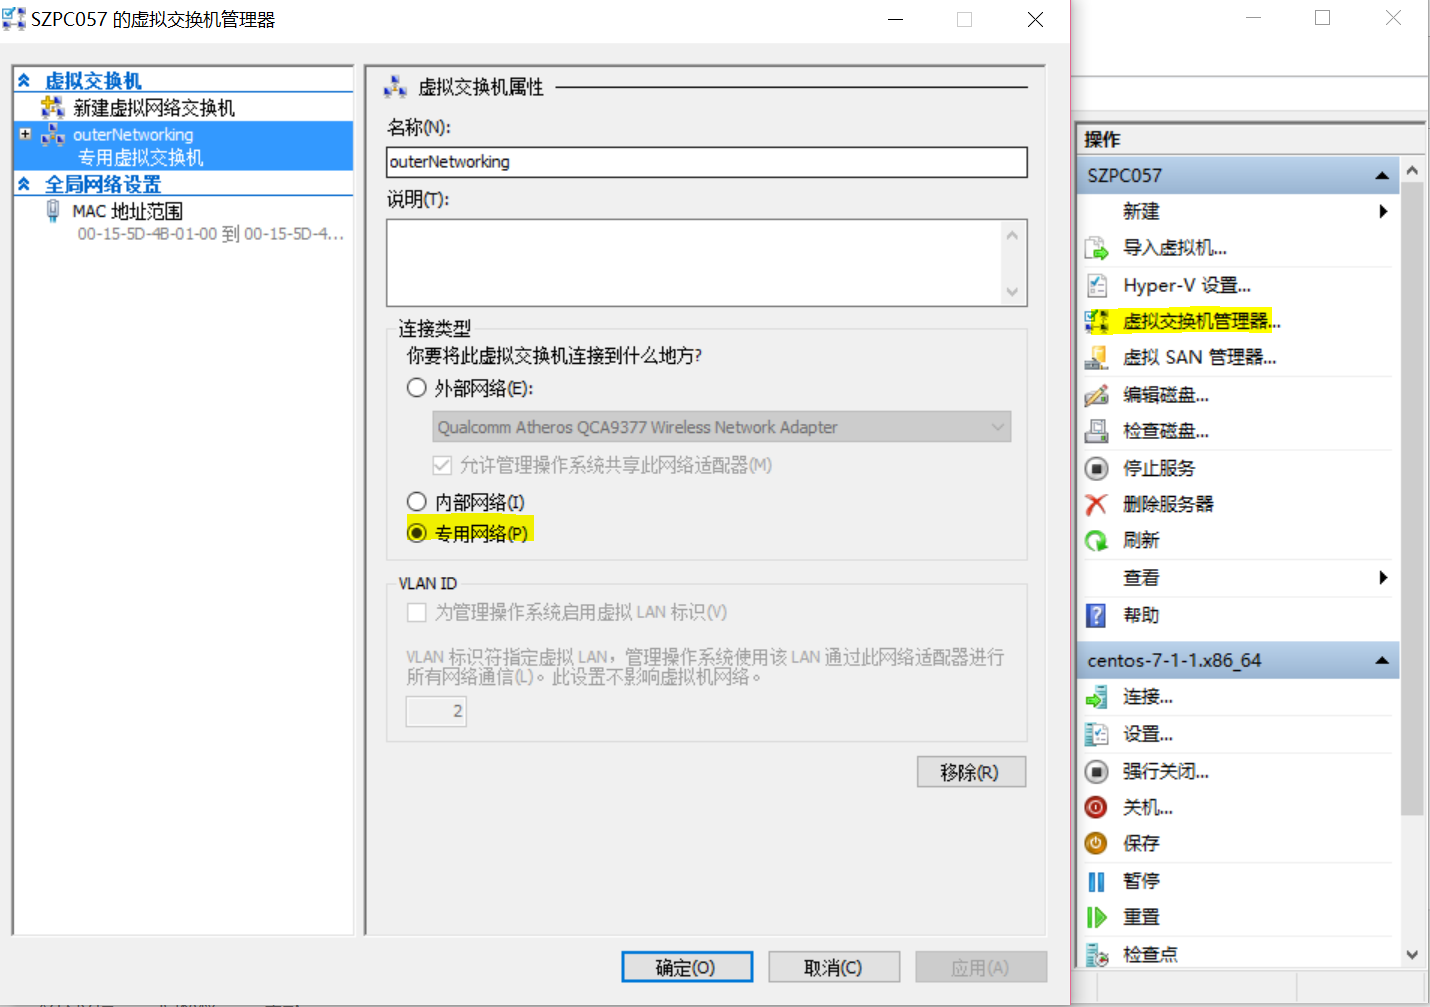
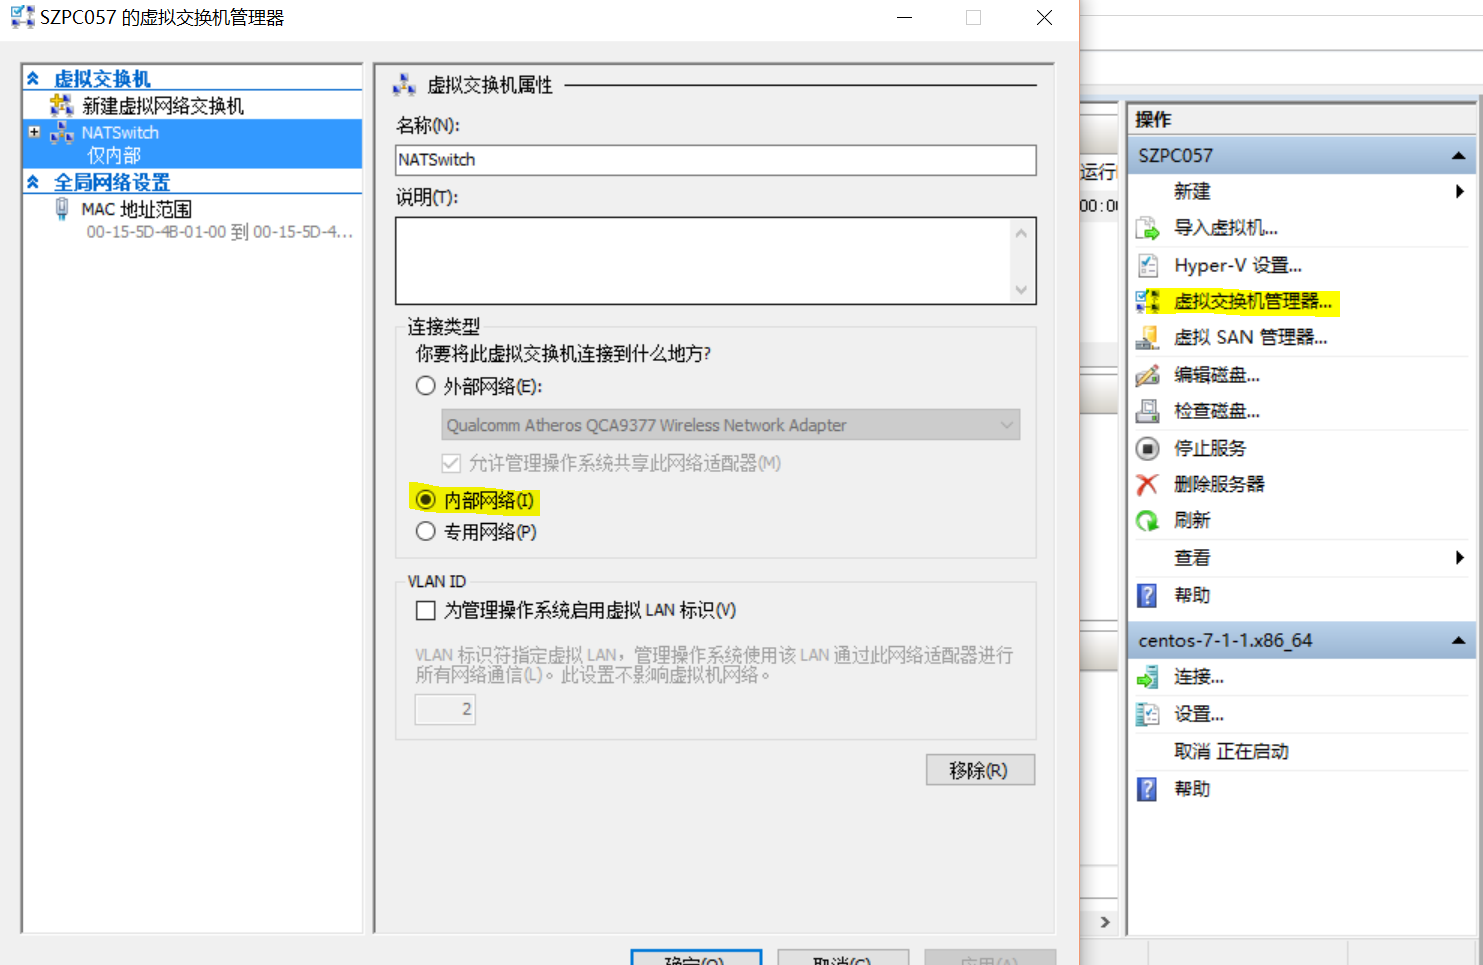
Add blog.

Changed region(s): [[0.0, 0.0, 1.0, 1.0], [0.0, 0.0, 0.2154, 0.0311]]

diff --git a/source/_posts/2017-01-03-Vagrant环境搭建.md b/source/_posts/2017-01-03-Vagrant环境搭建.md
@@ -512,7 +512,12 @@ wget https://vagrantcloud.com/centos/boxes/7/versions/1708.01/providers/hyperv.b
 ```
 
 ### 配置Hyper-V网络
-如果不配置网络的话，Hyper-V连接不到网络，具体请参考[https://docs.microsoft.com/en-us/virtualization/hyper-v-on-windows/quick-start/connect-to-network](https://docs.microsoft.com/en-us/virtualization/hyper-v-on-windows/quick-start/connect-to-network)
+如果不配置网络的话，Hyper-V连接不到网络：
+管理员方式运行PowerShell：
+```bash
+New-VMSwitch –SwitchName "NATSwitch" –SwitchType Internal
+```
+也可以手动添加：
 ![hyperv.png](/images/hyperv.png)
 
 注意：
